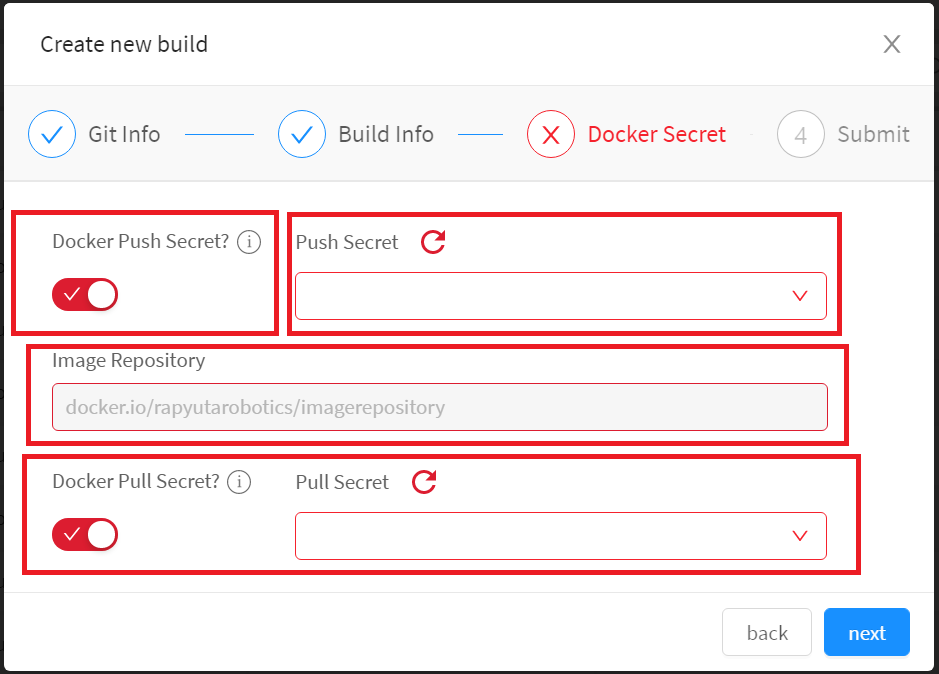
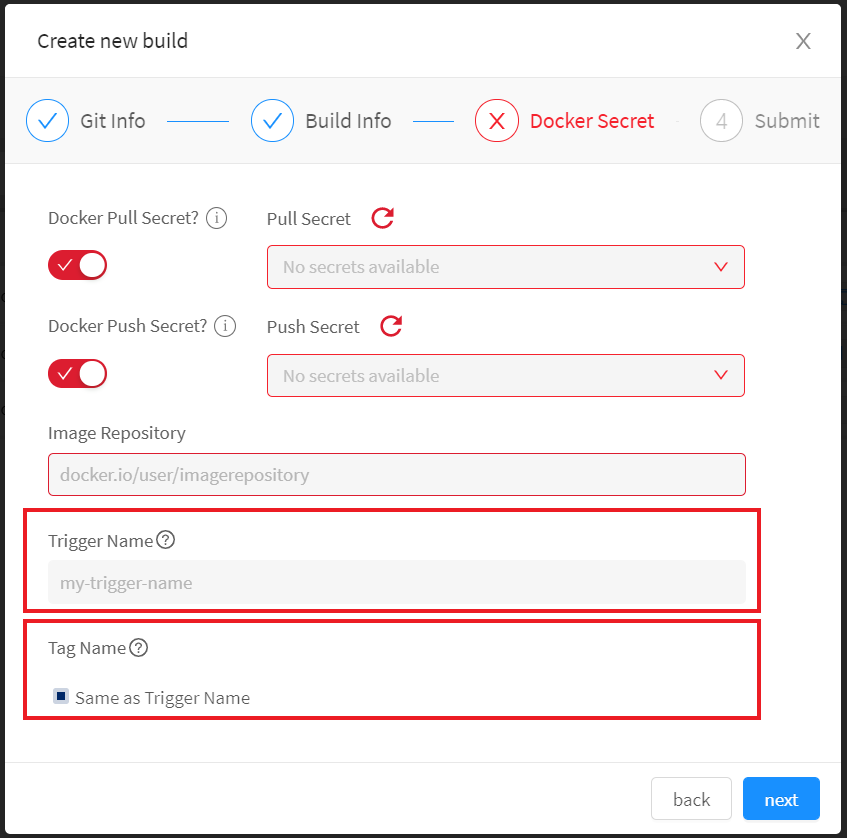
Updated user doc for build page improvement

diff --git a/hugo/content/3_how-tos/33_software-development/331_create-builds.md b/hugo/content/3_how-tos/33_software-development/331_create-builds.md
@@ -67,7 +67,7 @@ To create a build using Catkin recipe, do the following.
 
   ![goo](/images/core-concepts/builds/build-creation/catkin-build-info.png?classes=border,shadow&width=30pc)
 
-5. The **rapyuta.io** platform allows you to push and save the build image to an external docker registry.To push and save the build image to the private registry, do the following.
+5. The **rapyuta.io** platform allows you to push and save the build image to an external docker registry. To push and save the build image to the private registry, do the following.
 
     a. Under the **Docker Secret** tab, click the **Docker Push Secret**  toggle button.
 
@@ -119,21 +119,31 @@ To create a build using Catkin recipe, do the following.
 
 5. The **rapyuta.io** platform allows you to push and save the build image to an external docker registry or to pull an image from a private repository. To push or pull a docker image file, do the following.
 
-    a. Under the **Docker Secret** tab, click the **Docker Push Secret**  toggle button.
-    b. In the **Image Repository** field, enter the URL of the private repository where you want to push and save the image for later usage. For example, docker.io/your-username/repo-name. 
+    a. Optionally, to pull a secured docker image to the docker file, click the **Docker Pull secret** toggle button and select the secret for the repository. You can enable this option if the docker file requires a base image from the private registry. If you have not created any secret for the repository, [create a secret](/how-to-guides/account-management/setup-private-docker-registry/#creating-a-docker-secret).
 
-    c. From the **Push secret** drop-down menu, select the secret for the repository. If you have not created any secret for the repository, [create a secret](/how-to-guides/account-management/setup-private-docker-registry/#creating-a-docker-secret).
+    b. Optionally, if you want to push the build image to a private registry, click the **Docker Push Secret**  toggle button and select the secret for the repository. If you have not created any secret for the repository, [create a secret](/how-to-guides/account-management/setup-private-docker-registry/#creating-a-docker-secret).
 
+    c. Optionally, in the **Trigger Name** field, type a name for the trigger. The trigger name can be used to identify the build requests. 
 
-    d. Optionally, to pull a secured docker image to the docker file, click the **Docker Pull secret** toggle button and select the secret for the repository. If you have not created any secret for the repository, [create a secret](/how-to-guides/account-management/setup-private-docker-registry/#creating-a-docker-secret).
+    d. If you have enabled the **Docker Pull Secret** toggle button, you can also add a tag name to the build. The tag name is an optional field and can be used as a docker tag in the external docker registry. The trigger name and the tag name can be either the same or different. If you want to have a different tag name, de-select the **Same as Trigger Name** field and type a tag name in the **Tag Name** field.
+
+    {{%notice note%}}
+    **Tag Name** field is only available if the **Docker Pull Secret** toggle button is enabled.
+    {{%/notice%}}
 
     e. Click **Next**.
+
+
   ![goo](/images/core-concepts/builds/build-creation/docker-push-secret.png?classes=border,shadow&width=30pc)
 
 
   * You can see the progress of the build, by clicking the build created in the **Development>Builds** page. 
 
-  * Click on **SHOW MORE** to get more details about the build, it will take you to the **Details** tab of the build.
+  * Click on **SHOW MORE** to get more details about the build, it will take you to the **Details** tab of the build. If you want to view the build history, click the **Build History** tab. 
+
+{{%notice info%}}
+The **Build History** tab displays the trigger name and tag name if added during the build creation. If you haven't added any trigger name to the build, it displays a default trigger name.
+{{%/notice%}}
 
 ## Viewing Build Details
 
@@ -149,7 +159,7 @@ After you have created a build by either Catkin or Docker recipe, you can view t
 |Field|Description|
 |-----|-----------|
 |**Name/ID**| Provides the name of the build.
-|**Status**| Provides the following status of the build. <ul><li>BuildInProgress: Displays when the build creation process is in progress.</li><li>Complete: Displays when the build creation process has been successfully completed.</li><li>BuildFailed: Displays if the build creation process has failed.</li></ul>
+|**Status**| Provides the following status of the build. <ul><li>BuildInProgress: Displays when the build creation process is in progress.</li><li>Complete: Displays when the build creation process has been completed.</li><li>BuildFailed: Displays if the build creation process has failed.</li></ul>
 |**Started**| Provides the time duration when the build creation process has started.
 |**Repository**| Provides the repository from which the build has been created.
 |**Action**| Allows you to delete, trigger, or clone a build. 
@@ -174,12 +184,12 @@ After you have created a build by either Catkin or Docker recipe, you can view t
 ## Deleting the build
 
 {{% notice info %}}
-Note that if the build **Status** is *_BuildInProgress_*, then user will not be able to **Delete** the build. Deletion of such builds will fail with the error message : **can't delete the build since its corresponding build request is still in progress**.
+Note that if the build **Status** is *_BuildInProgress_*, then user will not be able to **Delete** the build. Deletion of such builds will fail with the error message: **can't delete the build since its corresponding build request is still in progress**.
 {{% /notice %}}
 
 To delete a build, do the following.
 
-1. On the left navigation bar, click **Development>Builds**. It  displays all the builds available for a project.
+1. On the left navigation bar, click **Development>Builds**. It displays all the builds available for a project.
 
 2. Select the build that you want to delete. 
 

diff --git a/hugo/content/5_deep-dives/52_software-development/522_trigger-and-rollback-builds.md b/hugo/content/5_deep-dives/52_software-development/522_trigger-and-rollback-builds.md
@@ -11,7 +11,7 @@ tags:
 
 ## Trigger and Rollback
 
-As a developer you may want to trigger a new build or rollback to a previous build generation. 
+As a developer, you may want to trigger a new build or rollback to a previous build generation. 
 The rapyuta.io **Development>Builds** allow you to do that.
 
 In the **Development>Builds** page select the particular build from the build list and click on **SHOW MORE**, 
@@ -27,6 +27,11 @@ You may always **Trigger** a new build irrespective of the status of the previou
 build. That is you can trigger a new build from either a **Complete** build or an
 **Error** build.
 
+When you trigger a new build, a pop-up message appears and prompts whether you want to use the default trigger/tag name or use different names for the build. If you select **Yes**, the build is triggered with the default trigger/tag name. If you select **No**, the **Trigger Build** dialog-box appears and you can add a different trigger and tag name for the build.
+
+  ![goo](/images/core-concepts/builds/build-creation/trigger-build.png?classes=border,shadow&width=30pc)
+
+
 {{% notice note %}}
 
 Packages which have builds that are in **Complete** status are suitable for a deployment. The **InProgress** and **Failed** builds are unfit for deployment.
@@ -34,15 +39,14 @@ Packages which have builds that are in **Complete** status are suitable for a de
 {{% /notice %}}
 
 You may also view details such as the git repository URL where the source code is hosted, 
-the latest commit SHA number, the commit message and the commit owner’s name by clicking **View details/logs** in the **Build history** tab of the build.
+the latest commit SHA number, the commit message, the commit owner’s name, trigger/tag name of the build by clicking **View details/logs** in the **Build history** tab of the build.
 
 ![View details or logs](/images/core-concepts/builds/trigger-rollback-view-deails.png?classes=border,shadow&width=50pc)
 
 You may also **Rollback** to a previous build generation number if there
 is any, irrespective of the previous build status. Rollbacking to a
 previous build does not restart the build process. Instead, on using the build 
-in next deployment it would run the corresponding docker image that was generated 
-for that build generation.
+in next deployment it would run the corresponding docker image that was generated for that build generation.
 
 The **Current build generation** number (Gen) is shown below the build ID.
 
